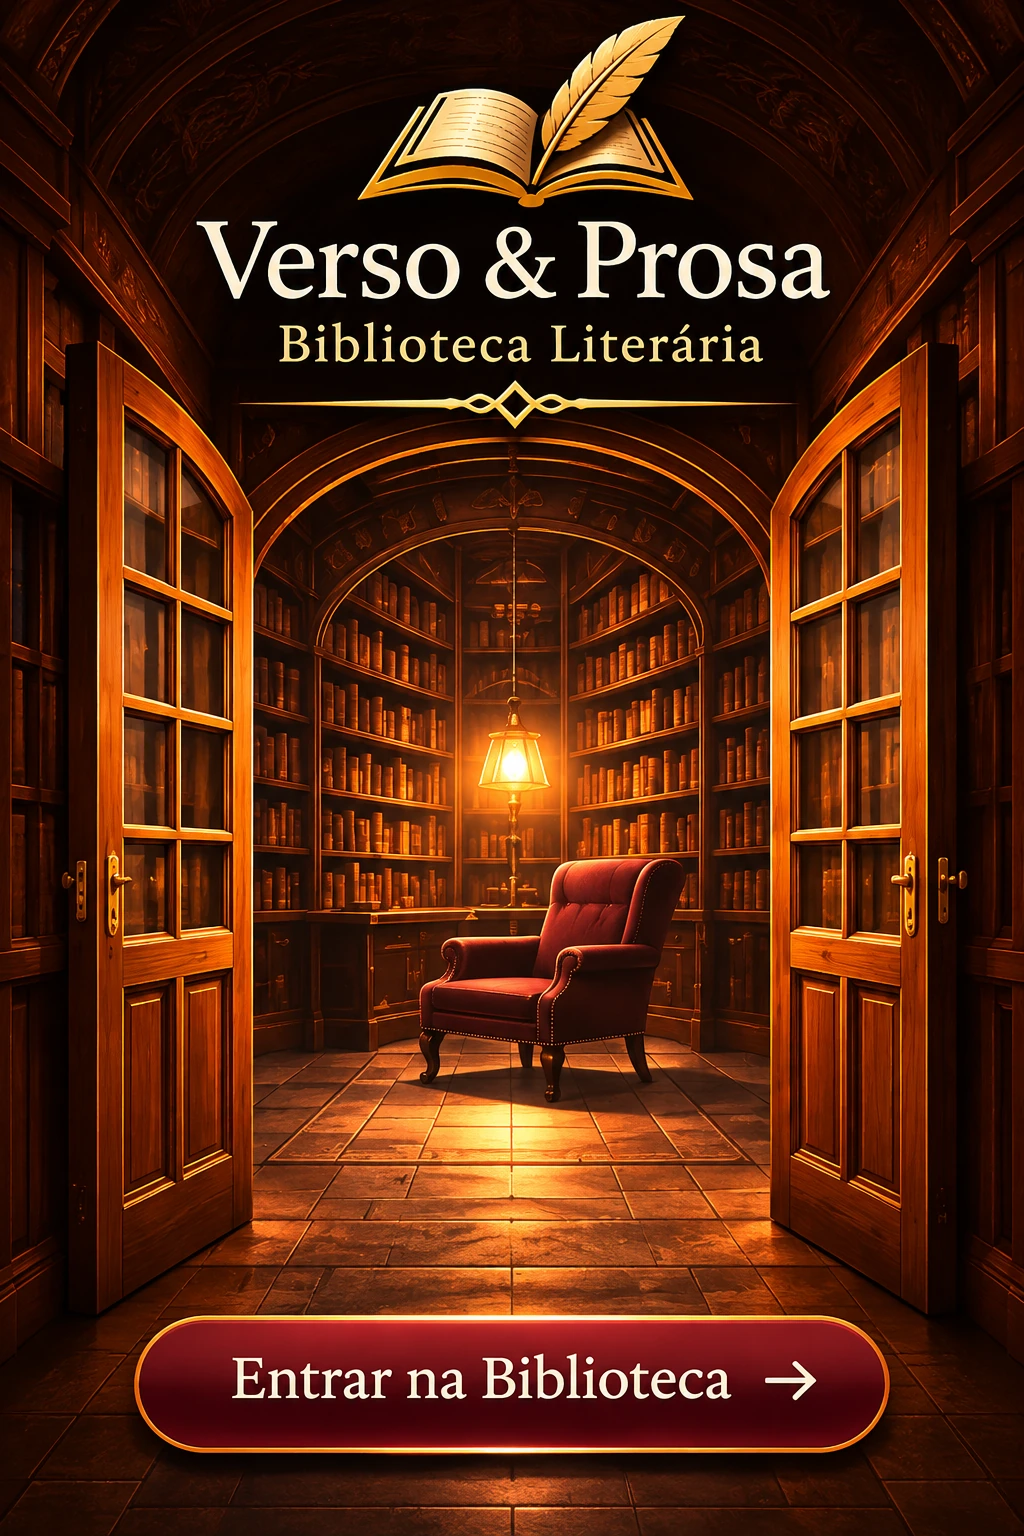
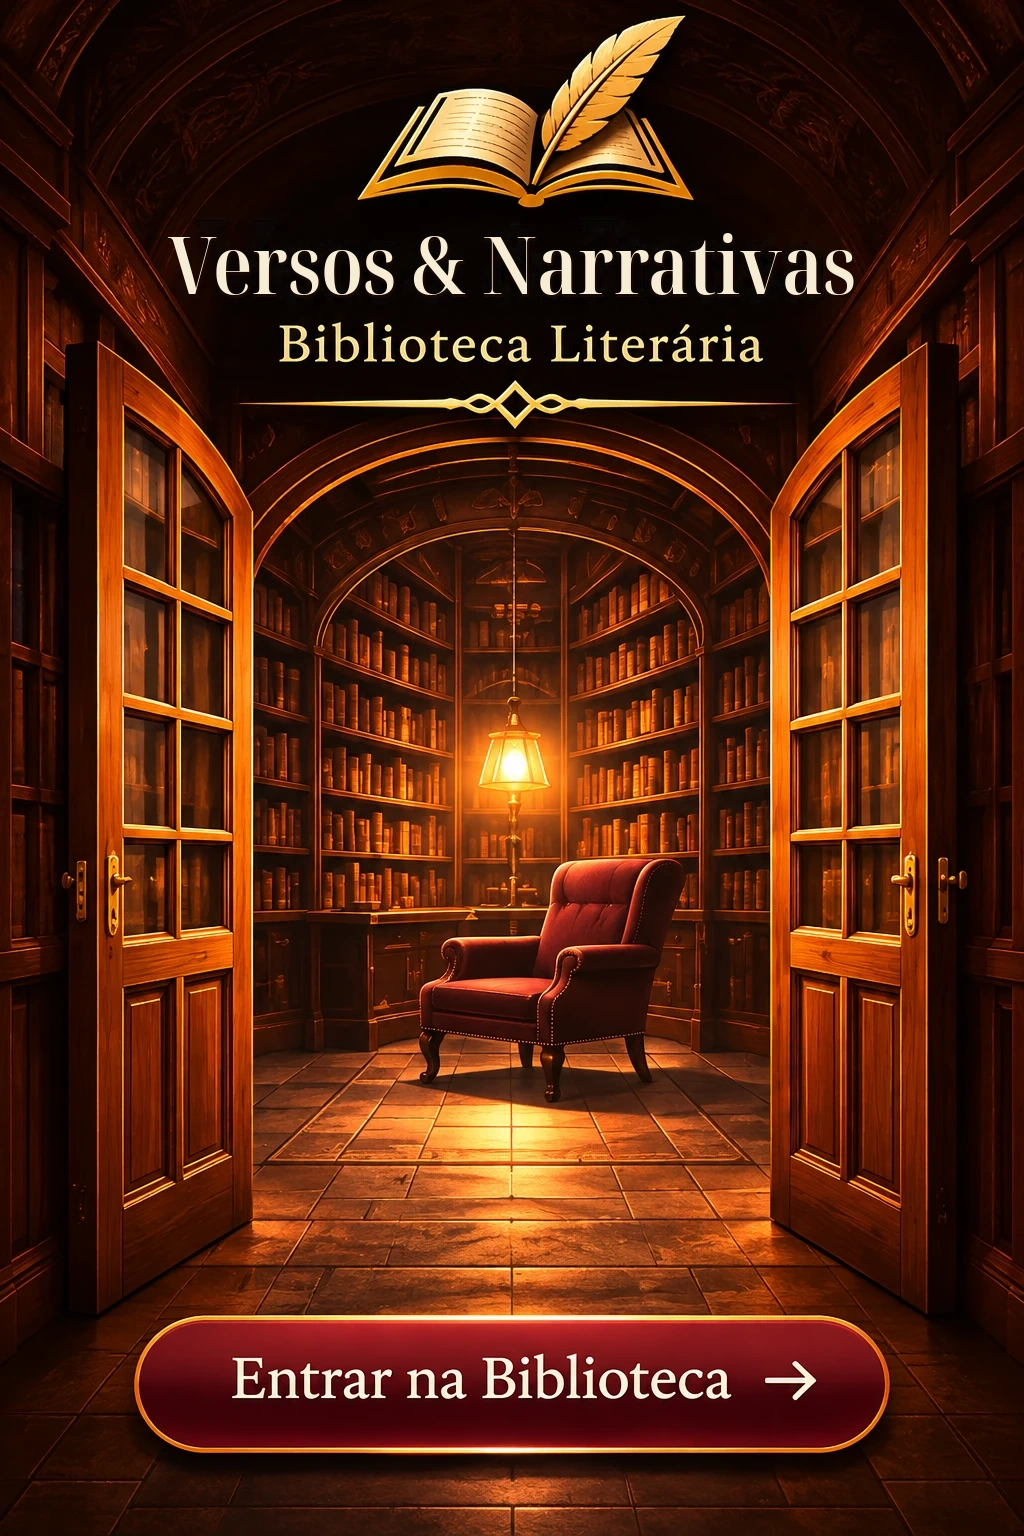
Add files via upload

Changed region(s): [[0.1562, 0.125, 0.8438, 0.2188]]

diff --git a/style.css b/style.css
@@ -7327,133 +7327,3 @@ img { max-width: 100%; }
 #inicio .home-hero-banner.home-is-leticia .mock-greeting-copy::before {
   inset: -18px -24px !important;
 }
-
-
-/* VERSOS & NARRATIVAS — nova assinatura sobre as artes aprovadas.
-   A máscara escura cobre somente a antiga assinatura incorporada às imagens;
-   o cenário, as proporções e as áreas clicáveis permanecem iguais. */
-.welcome-brand-overlay {
-  position: absolute !important;
-  z-index: 6 !important;
-  top: 0 !important;
-  left: 50% !important;
-  transform: translateX(-50%) !important;
-  width: min(88%, 1080px) !important;
-  height: 34% !important;
-  display: flex !important;
-  flex-direction: column !important;
-  align-items: center !important;
-  justify-content: center !important;
-  gap: 0 !important;
-  padding: 10px 12px 14px !important;
-  color: #fff3dc !important;
-  text-align: center !important;
-  pointer-events: none !important;
-  background: radial-gradient(ellipse 69% 125% at 50% 43%, rgba(7,3,2,.995) 0%, rgba(7,3,2,.985) 57%, rgba(7,3,2,.86) 76%, rgba(7,3,2,0) 100%) !important;
-}
-.welcome-brand-overlay img {
-  display: block !important;
-  width: clamp(58px, 7.5vw, 102px) !important;
-  height: clamp(58px, 7.5vw, 102px) !important;
-  object-fit: contain !important;
-  margin: 0 0 2px !important;
-  filter: drop-shadow(0 2px 5px rgba(0,0,0,.88)) !important;
-}
-.welcome-brand-overlay h1 {
-  margin: 0 !important;
-  color: #fff3dc !important;
-  font: 600 clamp(34px, 4.5vw, 64px)/.92 'Cormorant Garamond', Georgia, serif !important;
-  letter-spacing: -.9px !important;
-  white-space: nowrap !important;
-  text-shadow: 0 2px 5px #050201, 0 0 15px rgba(218,170,86,.24) !important;
-}
-.welcome-brand-overlay p {
-  margin: 6px 0 0 !important;
-  color: #e6c36f !important;
-  font: 600 clamp(11px, 1.55vw, 20px)/1.05 'Cormorant Garamond', Georgia, serif !important;
-  letter-spacing: .16em !important;
-  text-transform: uppercase !important;
-  text-shadow: 0 2px 4px #050201 !important;
-}
-.welcome-brand-ornament {
-  display: block !important;
-  width: min(52%, 420px) !important;
-  height: 2px !important;
-  margin-top: 10px !important;
-  background: linear-gradient(90deg, transparent, #d5a64c 22%, #f0d28b 50%, #d5a64c 78%, transparent) !important;
-  box-shadow: 0 0 5px rgba(224,177,84,.42) !important;
-}
-.welcome-brand-ornament::after {
-  content: '' !important;
-  display: block !important;
-  width: 8px !important;
-  height: 8px !important;
-  margin: -4px auto 0 !important;
-  transform: rotate(45deg) !important;
-  border: 1px solid #e4bf70 !important;
-  background: #170906 !important;
-}
-#welcome .welcome-enter-button { z-index: 8 !important; }
-
-#login .login-brand-overlay {
-  position: absolute !important;
-  z-index: 1 !important;
-  top: 0 !important;
-  left: 0 !important;
-  right: 0 !important;
-  height: 29.5% !important;
-  display: flex !important;
-  flex-direction: column !important;
-  align-items: center !important;
-  justify-content: center !important;
-  padding: 8px 5% 12px !important;
-  text-align: center !important;
-  pointer-events: none !important;
-  background: radial-gradient(ellipse 77% 130% at 50% 44%, rgba(8,3,2,.995) 0%, rgba(8,3,2,.985) 61%, rgba(8,3,2,.78) 81%, rgba(8,3,2,0) 100%) !important;
-}
-#login .login-brand-overlay img {
-  display: block !important;
-  width: clamp(72px, 14%, 116px) !important;
-  height: auto !important;
-  max-height: 46% !important;
-  object-fit: contain !important;
-  margin: 0 0 2px !important;
-  filter: drop-shadow(0 2px 5px #000) !important;
-}
-#login .login-brand-overlay h1 {
-  margin: 0 !important;
-  color: #fff2dc !important;
-  font: 600 clamp(27px, 5.2vw, 50px)/.94 'Cormorant Garamond', Georgia, serif !important;
-  letter-spacing: -.75px !important;
-  white-space: nowrap !important;
-  text-shadow: 0 2px 5px #050201, 0 0 12px rgba(220,172,89,.22) !important;
-}
-#login .login-brand-overlay p {
-  margin: 5px 0 0 !important;
-  color: #e5c477 !important;
-  font: 600 clamp(11px, 2.8vw, 18px)/1.05 'Cormorant Garamond', Georgia, serif !important;
-  letter-spacing: .13em !important;
-  text-transform: uppercase !important;
-  text-shadow: 0 2px 4px #050201 !important;
-}
-#login .login-brand-overlay span {
-  display: block !important;
-  width: 58% !important;
-  height: 1px !important;
-  margin-top: 9px !important;
-  background: linear-gradient(90deg, transparent, #d6a74e 20%, #f0d58e 50%, #d6a74e 80%, transparent) !important;
-}
-@media (max-width: 899px) {
-  .welcome-brand-overlay { height: 29% !important; width: 94% !important; padding-top: 3.5% !important; }
-  .welcome-brand-overlay img { width: clamp(56px, 17vw, 88px) !important; height: clamp(56px, 17vw, 88px) !important; }
-  .welcome-brand-overlay h1 { font-size: clamp(28px, 7.5vw, 49px) !important; letter-spacing: -.7px !important; }
-  .welcome-brand-overlay p { font-size: clamp(10px, 2.8vw, 16px) !important; }
-  .welcome-brand-ornament { width: 56% !important; margin-top: 8px !important; }
-  #login .login-brand-overlay { height: 29.5% !important; }
-  #login .login-brand-overlay img { width: clamp(68px, 19vw, 102px) !important; }
-  #login .login-brand-overlay h1 { font-size: clamp(26px, 7vw, 42px) !important; }
-}
-@media (max-width: 360px) {
-  .welcome-brand-overlay h1 { font-size: clamp(25px, 7vw, 29px) !important; }
-  #login .login-brand-overlay h1 { font-size: clamp(23px, 6.5vw, 27px) !important; }
-}

diff --git a/index.html b/index.html
@@ -16,7 +16,7 @@
 <link rel="preconnect" href="https://fonts.googleapis.com">
 <link rel="preconnect" href="https://fonts.gstatic.com" crossorigin>
 <link href="https://fonts.googleapis.com/css2?family=Cormorant+Garamond:wght@400;500;600;700&family=Lora:wght@400;500;600&display=swap" rel="stylesheet">
-<link rel="stylesheet" href="./style.css?v=home-v64">
+<link rel="stylesheet" href="./style.css?v=home-v63">
 <link rel="stylesheet" href="./modules/estante/estante.css?v=58">
 <link rel="stylesheet" href="./modules/adicionar-livro/adicionar-livro.css?v=60">
 </head>
@@ -37,18 +37,12 @@
   <symbol id="vp-quote" viewBox="0 0 24 24"><path d="M9 11H4a5 5 0 0 1 5-5v5Zm11 0h-5a5 5 0 0 1 5-5v5ZM4 11v7h5v-7m6 0v7h5v-7"/></symbol>
   <symbol id="vp-user" viewBox="0 0 24 24"><circle cx="12" cy="8" r="4"/><path d="M4 21a8 8 0 0 1 16 0"/></symbol>
 </svg>
-<section id="welcome" class="welcome-screen" aria-label="Entrada de Versos & Narrativas">
+<section id="welcome" class="welcome-screen" aria-label="Entrada do Versos & Narrativas">
   <div class="welcome-art" aria-hidden="true">
     <picture>
       <source media="(min-width: 900px)" srcset="./assets/scenes/welcome-desktop-approved.webp">
       <img src="./assets/scenes/welcome-mobile-responsive-v27.webp" alt="">
     </picture>
-    <div class="welcome-brand-overlay" aria-label="Versos &amp; Narrativas — Biblioteca Literária">
-      <img src="./assets/brand/versos-narrativas-emblem.svg" alt="" aria-hidden="true">
-      <h1>Versos &amp; Narrativas</h1>
-      <p>Biblioteca Literária</p>
-      <span class="welcome-brand-ornament" aria-hidden="true"></span>
-    </div>
   </div>
   <button class="welcome-enter-button" id="enterLibrary" type="button"
     aria-label="Entrar na Biblioteca">
@@ -74,12 +68,6 @@
   <div class="login-layout" role="region" aria-label="Acesso à biblioteca">
     <div class="login-canvas">
       <img class="login-approved-master" src="./assets/scenes/login-approved-master.png" alt="" aria-hidden="true">
-      <div class="login-brand-overlay" aria-label="Versos &amp; Narrativas — Biblioteca Literária">
-        <img src="./assets/brand/versos-narrativas-emblem.svg" alt="" aria-hidden="true">
-        <h1>Versos &amp; Narrativas</h1>
-        <p>Biblioteca Literária</p>
-        <span aria-hidden="true"></span>
-      </div>
       <div class="login-library-atmosphere" aria-hidden="true"></div>
       <div class="login-bottom-scene" aria-hidden="true"></div>
       <header class="login-brand">
@@ -118,7 +106,7 @@
 <section id="app" class="app-shell hidden">
   <header class="topbar">
     <div class="brand-small">
-      <span class="brand-seal"><img src="./assets/brand/versos-narrativas-emblem.svg" alt=""></span>
+      <span class="brand-seal"><img src="./assets/brand/verso-emblema.svg" alt=""></span>
       <span class="brand-name">Versos <b>&amp;</b> Narrativas <small>Biblioteca Literária</small></span>
     </div>
     <div class="top-actions"><span class="online-mark" aria-hidden="true"></span><span id="profileLabel">Leitor</span><button class="round-btn" id="profileSwitch" aria-label="Sair e trocar de conta">↪</button></div>

diff --git a/app.js b/app.js
@@ -509,7 +509,7 @@ document.addEventListener('DOMContentLoaded', async () => {
       const image = safeImageUrl(reading.capa);
       cover.innerHTML = image
         ? `<img src="${escapeHtml(image)}" alt="Capa de ${escapeHtml(reading.titulo || 'livro')}">`
-        : `<span class="fallback-cover-title">${escapeHtml(reading.titulo || 'V&amp;N')}</span>`;
+        : `<span class="fallback-cover-title">${escapeHtml(reading.titulo || 'V&amp;P')}</span>`;
       title.textContent = reading.titulo || 'Livro em leitura';
       author.textContent = reading.autor || 'Autor não informado';
       const pages = Number(reading.paginas || 0);
@@ -530,7 +530,7 @@ document.addEventListener('DOMContentLoaded', async () => {
       action.dataset.openCurrentBook = 'true';
       action.dataset.page = '';
     } else {
-      cover.innerHTML = '<span class="fallback-cover-title">V&amp;N</span>';
+      cover.innerHTML = '<span class="fallback-cover-title">V&amp;P</span>';
       title.textContent = 'Escolha o próximo volume';
       author.textContent = 'Sua biblioteca está pronta para a próxima jornada.';
       meta.innerHTML = books.length
@@ -555,7 +555,7 @@ document.addEventListener('DOMContentLoaded', async () => {
           const image = safeImageUrl(book.capa);
           const coverHtml = image
             ? `<img src="${escapeHtml(image)}" alt="Capa de ${escapeHtml(book.titulo || 'livro')}" loading="lazy">`
-            : `<span>${escapeHtml(book.titulo || 'V&amp;N')}</span>`;
+            : `<span>${escapeHtml(book.titulo || 'V&amp;P')}</span>`;
           return `<button type="button" class="acquisition-book" data-home-book-index="${originalIndex}" aria-label="Abrir ${escapeHtml(book.titulo || 'livro')}">
             <span class="acquisition-cover">${coverHtml}</span>
             <span class="acquisition-title">${escapeHtml(book.titulo || 'Sem título')}</span>
@@ -742,7 +742,7 @@ document.addEventListener('DOMContentLoaded', async () => {
     selectedBook = book;
     const image = safeImageUrl(book.capa);
     const cover = $('#detailCover');
-    cover.innerHTML = image ? `<img src="${escapeHtml(image)}" alt="Capa de ${escapeHtml(book.titulo || 'livro')}">` : '<span>V&amp;N</span>';
+    cover.innerHTML = image ? `<img src="${escapeHtml(image)}" alt="Capa de ${escapeHtml(book.titulo || 'livro')}">` : '<span>V&amp;P</span>';
     $('#detailTitle').textContent = book.titulo || 'Sem título';
     $('#detailAuthor').textContent = book.autor || 'Autor não informado';
     $('#detailGenre').textContent = book.genero || 'Gênero não informado';

diff --git a/sw.js b/sw.js
@@ -1,13 +1,14 @@
-const CACHE_NAME = 'versos-narrativas-home-v64';
+const CACHE_NAME = 'verso-prosa-home-v64';
 const APP_FILES = [
   './',
   './index.html',
   './assets/profiles/lele-epoca.webp',
   './assets/profiles/fernando-epoca.webp',
   './manifest.json',
-  './assets/brand/versos-narrativas-emblem.svg',
-  './assets/brand/versos-narrativas-logo.svg',
-  './assets/brand/versos-narrativas-emblem.png',
+  './assets/brand/verso-emblema.svg',
+  './assets/brand/verso-prosa-logo.svg',
+  './assets/brand/verso-prosa-home-logo.png',
+  './assets/brand/verso-prosa-home-emblem.png',
   './assets/login-emblem-approved-v6.png',
   './assets/icons/home-classic/3d-book-open.png',
   './assets/icons/home-classic/3d-book-add.png',
@@ -55,7 +56,7 @@ const APP_FILES = [
   './assets/scenes/login-library-bg-v5.webp',
   './assets/login-emblem-gold-v5.png',
   './assets/scenes/login-bottom-approved-v6.webp',
-  './style.css?v=home-v64',
+  './style.css?v=home-v63',
   './modules/estante/estante.css?v=58',
   './modules/adicionar-livro/adicionar-livro.css?v=60',
   './app.js?v=modular-v60',
@@ -84,7 +85,7 @@ self.addEventListener('activate', event => {
   event.waitUntil((async () => {
     const keys = await caches.keys();
     await Promise.all(keys
-      .filter(key => (key.startsWith('verso-prosa-') || key.startsWith('versos-narrativas-')) && key !== CACHE_NAME)
+      .filter(key => key.startsWith('verso-prosa-') && key !== CACHE_NAME)
       .map(key => caches.delete(key)));
     await self.clients.claim();
   })());

diff --git a/modules/home/index.html b/modules/home/index.html
@@ -3,7 +3,7 @@
   <header class="mock-home-header">
     <span class="home-header-lamp home-header-lamp-left" aria-hidden="true"></span>
     <span class="home-header-lamp home-header-lamp-right" aria-hidden="true"></span>
-    <img class="home-brand-full-logo" src="./assets/brand/versos-narrativas-logo.svg"
+    <img class="home-brand-full-logo" src="./assets/brand/verso-prosa-home-logo.png"
       alt="Versos &amp; Narrativas — Biblioteca Literária">
   </header>
 
@@ -50,7 +50,7 @@
     <section class="mock-current-reading" aria-label="Leitura atual">
       <h3>Leitura Atual</h3>
       <div class="mock-reading-row">
-        <div class="mock-reading-cover" id="homeReadingCover"><span class="fallback-cover-title">V&amp;N</span></div>
+        <div class="mock-reading-cover" id="homeReadingCover"><span class="fallback-cover-title">V&amp;P</span></div>
         <div class="mock-reading-details">
           <h4 id="homeReadingTitle">Ainda não há um livro sobre a mesa</h4>
           <p id="homeReadingAuthor">Escolha um título na sua estante.</p>

diff --git a/modules/detalhes-livro/index.html b/modules/detalhes-livro/index.html
@@ -2,7 +2,7 @@
 <dialog id="bookDialog" class="book-dialog">
   <div class="dialog-top"><span class="eyebrow">DETALHES DO LIVRO</span><button type="button" class="dialog-close" id="closeBookDialog" aria-label="Fechar">×</button></div>
   <div class="book-detail">
-    <div class="detail-cover" id="detailCover"><span>V&amp;N</span></div>
+    <div class="detail-cover" id="detailCover"><span>V&amp;P</span></div>
     <div class="detail-main"><span class="status-label" id="detailStatus">NO ACERVO</span><h2 id="detailTitle">Título do livro</h2><p id="detailAuthor" class="detail-author">Autor</p><p id="detailGenre" class="detail-genre"></p></div>
   </div>
   <div class="detail-rule"></div>

diff --git a/modules/estante/index.html b/modules/estante/index.html
@@ -4,7 +4,7 @@
   <header class="shelf-module-header" aria-label="Minha Estante">
     <span class="shelf-header-lamp shelf-header-lamp-left" aria-hidden="true"></span>
     <span class="shelf-header-lamp shelf-header-lamp-right" aria-hidden="true"></span>
-    <img class="shelf-module-home-emblem" src="./assets/brand/versos-narrativas-emblem.png" alt="" aria-hidden="true">
+    <img class="shelf-module-home-emblem" src="./assets/brand/verso-prosa-home-emblem.png" alt="" aria-hidden="true">
     <h1>Minha Estante</h1>
     <span class="shelf-module-divider" aria-hidden="true"></span>
   </header>

diff --git a/modules/adicionar-livro/index.html b/modules/adicionar-livro/index.html
@@ -3,7 +3,7 @@
   <header class="add-module-header" aria-label="Adicionar Livro">
     <span class="add-header-lamp add-header-lamp-left" aria-hidden="true"></span>
     <span class="add-header-lamp add-header-lamp-right" aria-hidden="true"></span>
-    <img class="add-module-emblem" src="./assets/brand/versos-narrativas-emblem.png" alt="" aria-hidden="true">
+    <img class="add-module-emblem" src="./assets/brand/verso-prosa-home-emblem.png" alt="" aria-hidden="true">
     <h1>Adicionar Livro</h1>
     <span class="add-module-divider" aria-hidden="true"></span>
   </header>

diff --git a/README.md b/README.md
@@ -1,29 +1,21 @@
-# Versos & Narrativas — Biblioteca Literária
+# Versos & Narrativas — Mockup Fiel v4
 
-Pacote de atualização de identidade da versão funcional do aplicativo. A estética clássica, os módulos, a navegação, os perfis e as integrações existentes foram preservados.
+Pacote de frontend construído sobre o mockup enviado por Fernando. As imagens de cenário foram recortadas da prancha visual aprovada e incluídas localmente em `assets/scenes`; não há dependência de imagens externas.
 
-## Aplicar a atualização do frontend
-1. Faça backup do repositório GitHub antes de substituir qualquer arquivo.
-2. Neste pacote, abra a pasta `frontend/` e copie **todo o conteúdo dela** para a raiz do repositório GitHub atual, preservando a estrutura de pastas.
-3. Substitua os arquivos com os mesmos caminhos e inclua os três novos arquivos em `assets/brand/`.
-4. Remova os arquivos de marca antigos listados em `REMOVER-ARQUIVOS-ANTIGOS.txt` depois de confirmar que as referências novas estão no lugar.
-5. Aguarde o GitHub Pages publicar e faça uma atualização forçada com Ctrl+Shift+R.
+## Atualização
+1. Faça backup do repositório GitHub.
+2. Extraia o ZIP e abra `app_verso_prosa-main`.
+3. Envie o conteúdo dessa pasta para a raiz do repositório `app_verso_prosa`, substituindo os arquivos correspondentes.
+4. Mantenha a pasta `assets` completa.
+5. Não envie `Code.gs` ao GitHub: o Apps Script permanece no projeto Google.
+6. Aguarde o Pages publicar e atualize com Ctrl+Shift+R.
 
-## Atualizar o Google Apps Script (fora do GitHub)
-O arquivo `backend-apps-script/Code.gs`, que fica ao lado da pasta `frontend/` na raiz do ZIP, é a cópia atualizada do código que foi enviado para esta conversa. Ele mantém o mesmo ID da planilha, abas, perfis, hashing de senhas, sessões, funções da API e o tipo de resposta `vp-api-response`, que o frontend já espera.
+## Preservação funcional
+`app.js` foi mantido sem alterações; URL do Apps Script, fluxo de login, dados, formulários e sincronização permanecem como na versão funcional anterior. `sw.js`, manifest, ícones e CSS foram atualizados.
 
-1. Abra o projeto atual do Apps Script e faça uma cópia de segurança do conteúdo de `Código.gs`.
-2. Abra `backend-apps-script/Code.gs` na raiz do pacote, copie todo o conteúdo e substitua o conteúdo de `Código.gs` no editor do Apps Script.
-3. Salve. Não execute a rotina de inicialização apenas por causa da troca de nome: o banco já está criado. A função antiga continua disponível por compatibilidade e existe uma nova função de inicialização com o nome atualizado.
-4. Em **Implantar → Gerenciar implantações**, edite a implantação atual, escolha **Nova versão** e implante. Preserve **Executar como: Eu** e **Quem pode acessar: Qualquer pessoa**.
-5. A URL da implantação e o ID da planilha devem permanecer os mesmos.
+## Nota sobre a referência
+Os cenários são recortes de ambiente da imagem de referência do usuário, usados como fundos decorativos. Capas cadastradas e componentes interativos continuam sendo HTML real e clicável.
 
-## O que foi preservado
-- IDs e URLs de GitHub Pages e do Apps Script.
-- ID da planilha e nomes/cabeçalhos das abas.
-- Contas, e-mails, senhas, perfis e sessões existentes.
-- Formato da API e tipo `vp-api-response` que o frontend escuta.
-- Layout e comportamento dos módulos, navegação e funcionalidades.
 
-## Limites desta atualização
-As artes de abertura e login aprovadas incluem o nome antigo incorporado no próprio arquivo de imagem. Nesta atualização, uma camada de marca em HTML/CSS cobre a assinatura antiga e exibe o novo nome sem modificar as imagens de cenário. Confira visualmente essas duas telas em desktop e celular antes de publicar para todos.
+## Login v3 (11/11/2026)
+A tela de login foi reconstruída com HTML e CSS. O arquivo de mockup completo não é mais usado como interface. Marca, campos, ícones, botão, ornamentos e moldura são componentes independentes; a imagem `assets/scenes/lamp-books.webp` é usada apenas como detalhe decorativo inferior. A autenticação e a chamada atual ao Apps Script foram preservadas.
